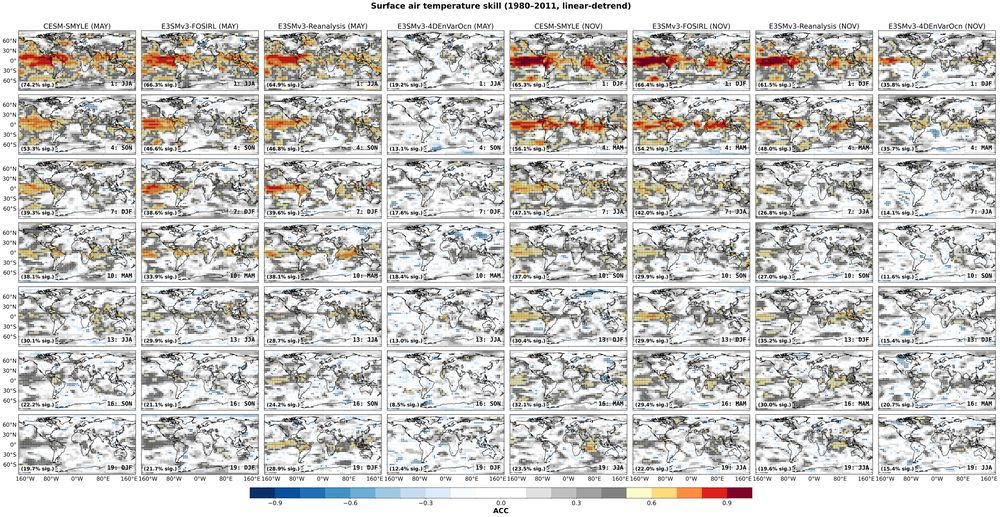
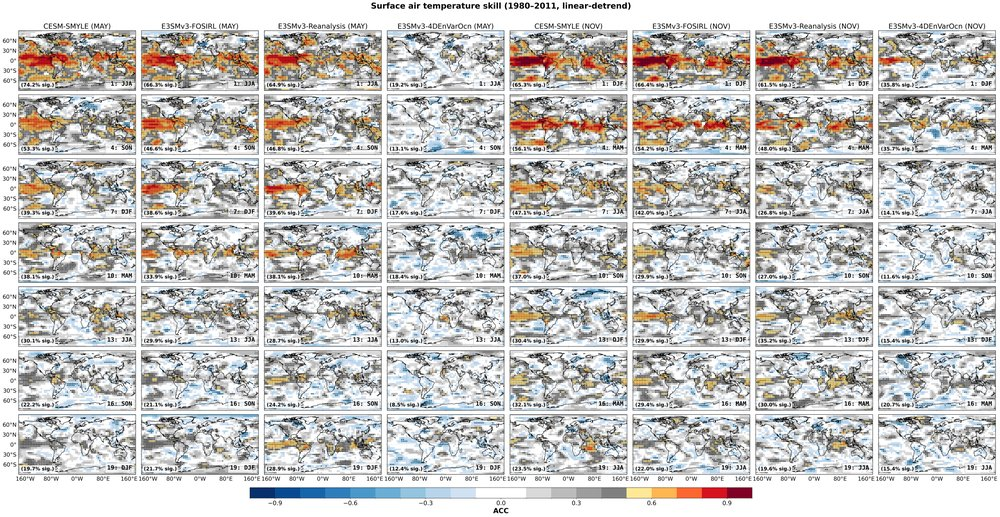
docs: gallery counts, land RMSE file names, and refreshed examples
951 figures (71 lead-time RMSE); land CONUS and per-month 1c difference
file names; a CHANGELOG entry for the color maps and land additions; the
TREFHT ACC and Nino3.4-PRECT examples redrawn with the new colorbar.

diff --git a/README.md b/README.md
@@ -54,10 +54,10 @@ Fields without a CESM-SMYLE benchmark (ocean `SSS` and `OHC700`, and all land fi
 | [`1a_ocn_leadtime_acc_skill_map.ipynb`](jupyter/1a_ocn_leadtime_acc_skill_map.ipynb) | Ocean Skill | Ocean lead-time ACC maps (SST, SSS, OHC700) |
 | [`1b_atm_leadtime_rmse_skill_map.ipynb`](jupyter/1b_atm_leadtime_rmse_skill_map.ipynb) | Error Maps | Anomaly RMSE skill maps (atmosphere: TREFHT, TS, PRECT, PSL) |
 | [`1b_ocn_leadtime_rmse_skill_map.ipynb`](jupyter/1b_ocn_leadtime_rmse_skill_map.ipynb) | Error Maps | Anomaly RMSE skill maps (ocean: SST, SSS, OHC700) |
-| [`1b_lnd_leadtime_rmse_skill_map.ipynb`](jupyter/1b_lnd_leadtime_rmse_skill_map.ipynb) | Error Maps | Normalized RMSE skill maps (land: H2OSNO, H2OSOI, TWS) |
+| [`1b_lnd_leadtime_rmse_skill_map.ipynb`](jupyter/1b_lnd_leadtime_rmse_skill_map.ipynb) | Error Maps | Normalized RMSE skill maps with a CONUS zoom (land: H2OSNO, H2OSOI, TWS) |
 | [`1c_atm_leadtime_rmse_compare.ipynb`](jupyter/1c_atm_leadtime_rmse_compare.ipynb) | Model Comparison | Direct (bias-inclusive) RMSE and significance-tested model differences (atmosphere) |
 | [`1c_ocn_leadtime_rmse_compare.ipynb`](jupyter/1c_ocn_leadtime_rmse_compare.ipynb) | Model Comparison | Direct (bias-inclusive) RMSE and significance-tested model differences (ocean: SST, SSS, OHC700) |
-| [`1c_lnd_leadtime_rmse_compare.ipynb`](jupyter/1c_lnd_leadtime_rmse_compare.ipynb) | Model Comparison | Direct-RMSE comparison between E3SM land cases (absolute-value reference required; skipped for TWS) |
+| [`1c_lnd_leadtime_rmse_compare.ipynb`](jupyter/1c_lnd_leadtime_rmse_compare.ipynb) | Model Comparison | Direct-RMSE comparison between E3SM land cases, global and CONUS (absolute-value reference required; skipped for TWS) |
 | [`2a_regional_acc_skill_ts.ipynb`](jupyter/2a_regional_acc_skill_ts.ipynb) | Regional Skill | Global and regional ACC and nRMSE versus lead (seasonal from 1a, plus monthly all-start curves) for all atmosphere, ocean, and land fields |
 | [`3a_sst_skill_ts.ipynb`](jupyter/3a_sst_skill_ts.ipynb) | Ocean Skill | SST index skill time series (E3SM, CESM-SMYLE, NMME) |
 | [`3b_sst_telecon.ipynb`](jupyter/3b_sst_telecon.ipynb) | Teleconnections | Sea surface temperature teleconnection diagnostics |
@@ -85,7 +85,7 @@ Caches are reused only when their stored provenance attributes match the current
 ## Interactive Web Viewer
 ESP-Lab includes a responsive HTML web generator (`esp_lab.diagnostics.web`) that compiles all evaluation figures into a standalone, browsable diagnostics gallery.
 
-- **Live Web Gallery**: [NERSC CFS E3SM-S2D Diagnostics Portal](https://portal.nersc.gov/cfs/e3sm/zhan391/e3sm-s2d_diag/) — 944 figures across lead-time ACC and RMSE, regional skill, SST indices, modes of variability, ELI, initial shock, teleconnections, and tropical cyclones. See the [gallery overview](docs/source/gallery.md) for its sections and example figures.
+- **Live Web Gallery**: [NERSC CFS E3SM-S2D Diagnostics Portal](https://portal.nersc.gov/cfs/e3sm/zhan391/e3sm-s2d_diag/) — 951 figures across lead-time ACC and RMSE, regional skill, SST indices, modes of variability, ELI, initial shock, teleconnections, and tropical cyclones. See the [gallery overview](docs/source/gallery.md) for its sections and example figures.
 - **Features**:
   - **Quick Buttons View**: One-page matrix with one row per field (or index/mode) and one button per figure type; greyed buttons mark figures that do not exist for that row (e.g. no CESM-SMYLE comparison for SSS).
   - **Lead-time RMSE labels** say what each figure shows: `RMSE Skill Map` (1b anomaly RMSE), `nRMSE Difference` (E3SM minus CESM-SMYLE), `Case Difference` (E3SM minus control), `Total RMSE` and `RMSE Difference` (1c, bias included).
@@ -137,8 +137,8 @@ All diagnostic plots are published into a unified web-accessible root (e.g., `/g
 | **Atmospheric / Ocean ACC** | `1a_atm`, `1a_ocn` | `fig_{atm,ocn}_acc_{field}_acc[_{type}].png`, type ∈ `compare`, `difference`, `distribution`, `case_difference` | `fig_atm_acc_prect_acc.png`, `fig_ocn_acc_sss_acc_case_difference.png` |
 | **Land ACC** | `1a_lnd` | `fig_lnd_acc_{field}_acc[_case_difference].png` | `fig_lnd_acc_tws_acc.png`, `fig_lnd_acc_h2osoi_acc_case_difference.png` |
 | **Anomaly RMSE maps** | `1b_atm`, `1b_ocn` | `fig_{atm,ocn}_rmse_{field}_rmse_{global,conus,difference,case_difference}.png` | `fig_atm_rmse_prect_rmse_global.png`, `fig_ocn_rmse_ohc700_rmse_case_difference.png` |
-| **Land normalized RMSE** | `1b_lnd` | `fig_lnd_rmse_{field}_rmse[_case_difference].png` | `fig_lnd_rmse_h2osoi_rmse.png` |
-| **Direct RMSE comparison** | `1c_*` | `fig_rmse_compare_{field}_rmse_compare_{global,conus}.png`<br>`fig_rmse_compare_{field}_rmse_difference_compare_init{MM}.png` (atm/ocn), `..._rmse_difference_global.png` (land) | `fig_rmse_compare_prect_rmse_compare_global.png`, `fig_rmse_compare_prect_rmse_difference_compare_init05.png` |
+| **Land normalized RMSE** | `1b_lnd` | `fig_lnd_rmse_{field}_rmse[_{conus,case_difference}].png` | `fig_lnd_rmse_h2osoi_rmse.png` |
+| **Direct RMSE comparison** | `1c_*` | `fig_rmse_compare_{field}_rmse_compare_{global,conus}.png`<br>`fig_rmse_compare_{field}_rmse_difference_compare_init{MM}.png` (atm/ocn), `..._rmse_difference_global_init{MM}.png` (land) | `fig_rmse_compare_prect_rmse_compare_global.png`, `fig_rmse_compare_prect_rmse_difference_compare_init05.png` |
 | **Regional ACC / nRMSE** | `2a` | `fig_regional_acc_nrmse_{atm,ocn,lnd}_{field}_{region}.png` | `fig_regional_acc_nrmse_lnd_tws_global.png`, `fig_regional_acc_nrmse_ocn_sst_tropics.png` |
 | **SST Indices** | `3a` | `fig_sst_index_{index}_{acc_skill,time_series}.png` | `fig_sst_index_nino3_4_acc_skill.png`, `fig_sst_index_roni_time_series.png` |
 | **SST / MOV / ELI Teleconnections** | `3b`, `4b`, `5c` | `fig_teleconnection_{index}_{VAR}_{correlation_reference_comparison,summary,taylor_diagram}.png` | `fig_teleconnection_Nino34_TREFHT_summary.png`, `fig_teleconnection_NAO_PRECT_taylor_diagram.png` |

diff --git a/docs/source/gallery.md b/docs/source/gallery.md
@@ -20,7 +20,7 @@ filtered by driving index or mode.
 | Section | Figures | Rows | Buttons | Produced by |
 |---|---:|---|---|---|
 | Lead-time ACC | 35 | TREFHT, TS, PRECT, PSL, SST, SSS, OHC700, H2OSNO, H2OSOI, TWS | ACC Skill Map, Model Compare, Difference, Sample Period Sensitivity, Case Difference | `1a_atm`, `1a_ocn`, `1a_lnd` |
-| Lead-time RMSE | 64 | the same 10 fields | RMSE Skill Map (Global/CONUS), nRMSE Difference, Case Difference, Total RMSE (Global/CONUS), RMSE Difference (May/Nov) | `1b_*`, `1c_*` |
+| Lead-time RMSE | 71 | the same 10 fields | RMSE Skill Map (Global/CONUS), nRMSE Difference, Case Difference, Total RMSE (Global/CONUS), RMSE Difference (May/Nov) | `1b_*`, `1c_*` |
 | Regional ACC / nRMSE | 84 | atmosphere, ocean, and land fields | Global, Land, Ocean, Tropics, NH/SH Extratropics, CONUS, North America, Eurasia | `2a` |
 | SST Index | 26 | 13 indices (Niño1+2, Niño3, Niño3.4, Niño4, ONI, RONI, TNI, IOD, TNA, TSA, AtlNino, AtlMDR, Pacific warm pool) | ACC Skill, Time Series | `3a` |
 | Modes of Variability | 72 | 12 modes (NAM, NAO, SAM, PNA, NPO, EA, SCA, PSA1, PSA2, PDO, NPGO, AMO) | Skill vs Lead, PC Time Series, EOF Year 1/2, Teleconnection May/Nov | `4a` |
@@ -29,7 +29,7 @@ filtered by driving index or mode.
 | Teleconnections | 624 | 26 drivers (SST indices, ELI, and modes) × 8 fields | Correlation Map, Summary, Taylor Diagram | `3b`, `4b`, `5c` |
 | Tropical Cyclones | 5 | tropical cyclones | Method, Sanity, Trajectory, and Lead-time Compare, ENSO Regression Map | `7a`, `7b` |
 
-Counts are from the September 2026 final pass (944 figures).
+Counts are from the September 2026 final pass, including the later land RMSE additions (951 figures).
 
 ## Example figures
 

diff --git a/docs/source/tutorials/index.md b/docs/source/tutorials/index.md
@@ -18,10 +18,10 @@ Fields without a CESM-SMYLE benchmark (ocean `SSS` and `OHC700`, and all land fi
 | `1a_ocn_leadtime_acc_skill_map.ipynb` | Ocean Skill | Ocean lead-time ACC maps (SST, SSS, OHC700) |
 | `1b_atm_leadtime_rmse_skill_map.ipynb` | Error Maps | Anomaly RMSE skill maps (atmosphere: TREFHT, TS, PRECT, PSL) |
 | `1b_ocn_leadtime_rmse_skill_map.ipynb` | Error Maps | Anomaly RMSE skill maps (ocean: SST, SSS, OHC700) |
-| `1b_lnd_leadtime_rmse_skill_map.ipynb` | Error Maps | Normalized RMSE skill maps (land: H2OSNO, H2OSOI, TWS) |
+| `1b_lnd_leadtime_rmse_skill_map.ipynb` | Error Maps | Normalized RMSE skill maps with a CONUS zoom (land: H2OSNO, H2OSOI, TWS) |
 | `1c_atm_leadtime_rmse_compare.ipynb` | Model Comparison | Direct (bias-inclusive) RMSE and significance-tested model differences (atmosphere) |
 | `1c_ocn_leadtime_rmse_compare.ipynb` | Model Comparison | Direct (bias-inclusive) RMSE and significance-tested model differences (ocean: SST, SSS, OHC700) |
-| `1c_lnd_leadtime_rmse_compare.ipynb` | Model Comparison | Direct-RMSE comparison between E3SM land cases (absolute-value reference required; skipped for TWS) |
+| `1c_lnd_leadtime_rmse_compare.ipynb` | Model Comparison | Direct-RMSE comparison between E3SM land cases, global and CONUS (absolute-value reference required; skipped for TWS) |
 | `2a_regional_acc_skill_ts.ipynb` | Regional Skill | Global and regional ACC and nRMSE versus lead (seasonal from 1a, plus monthly all-start curves) for all atmosphere, ocean, and land fields |
 | `3a_sst_skill_ts.ipynb` | Ocean Skill | SST index skill time series (E3SM, CESM-SMYLE, NMME) |
 | `3b_sst_telecon.ipynb` | Teleconnections | Sea surface temperature teleconnection diagnostics |

diff --git a/CHANGELOG.md b/CHANGELOG.md
@@ -6,6 +6,7 @@ Final-pass consolidation of the E3SM S2D diagnostic suite:
 - **Ocean fields**: `SSS` (EN4) and `OHC700` (EN4 0–700 m heat content, MPAS field converted to J m-2 before regridding) across `1a`/`1b`/`1c`/`2a`; fields without a CESM-SMYLE benchmark get E3SM-only maps.
 - **Consistent comparisons**: ACC skill maps show the full field with significance dots; every `1a`/`1b` field has an E3SM case-difference figure; `1c` keeps only the significance-tested RMSE difference; `1c_lnd` skips direct RMSE for anomaly-only references (TWS) instead of failing.
 - **Regional skill (`2a`)**: separate `OCN_MONTHLY_REFERENCES` and `LND_MONTHLY_REFERENCES`, realm-appropriate regions, correct season labels, and nRMSE that ignores cells without observed variability (e.g. SST under sea ice).
+- **Figures**: ACC and difference color maps give each color-bar interval exactly one color, so white spans exactly -0.1 to 0.1 and the 0.5 ACC cutoff is a clear step (all ACC, difference, and teleconnection maps); `1b_lnd` and `1c_lnd` add a CONUS zoom in the `1b_atm` layout; `1c_lnd` draws one RMSE difference figure per start month.
 - **Web gallery**: descriptive, fixed-order Lead-time RMSE buttons, Case Difference buttons, SSS/OHC700 rows, PSL initial-shock figures, and Niño driver names; no two figures share a button.
 - **Robustness**: large dask-backed NetCDF writes are computed before writing (fixes a hang on the HDF5 lock); native ELI refuses to write empty caches; scripts and workflows resolve roots through `esp_lab.env_paths`.
 - **Packaging**: version 1.4.0; unused `eofs`, `xcdat`, and `cmocean` removed from the runtime requirements; `global-land-mask` added to `environment.yml`.
